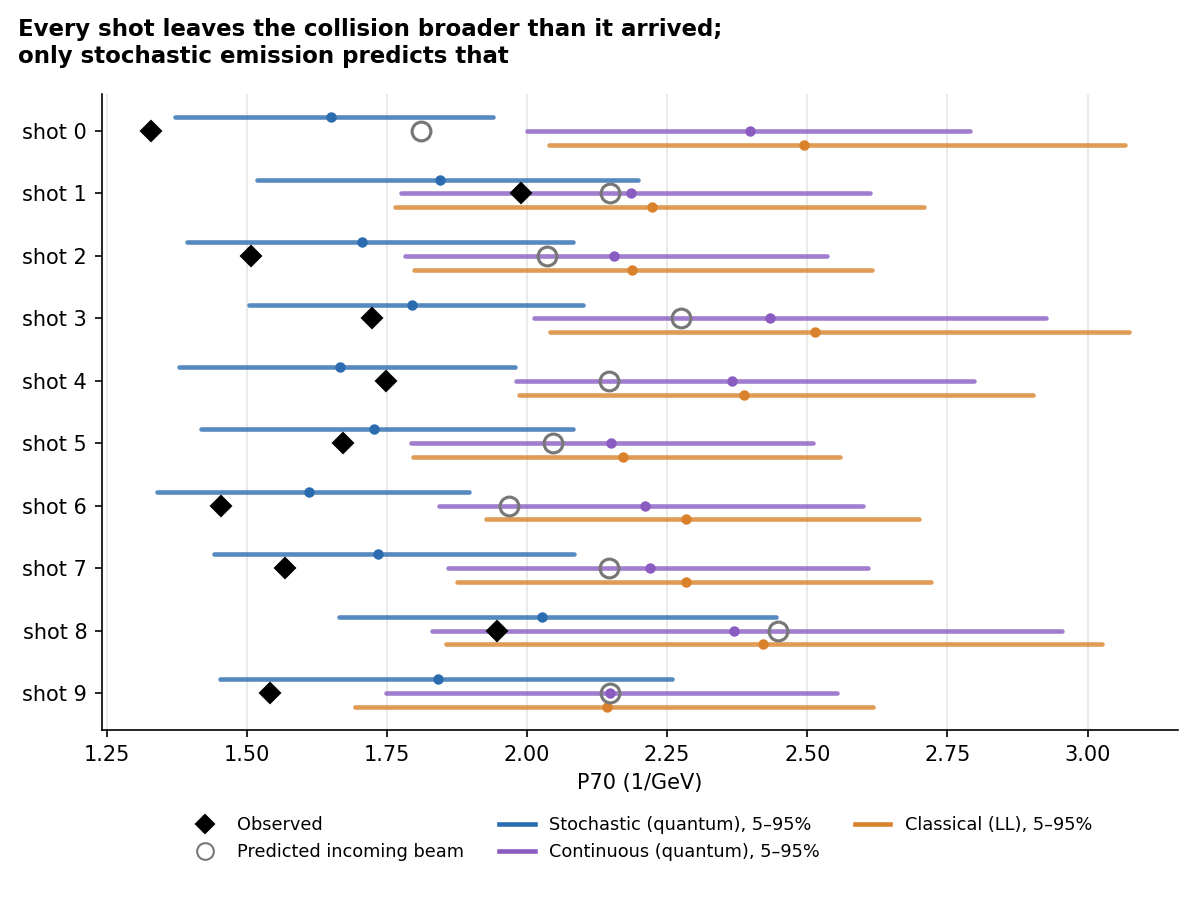
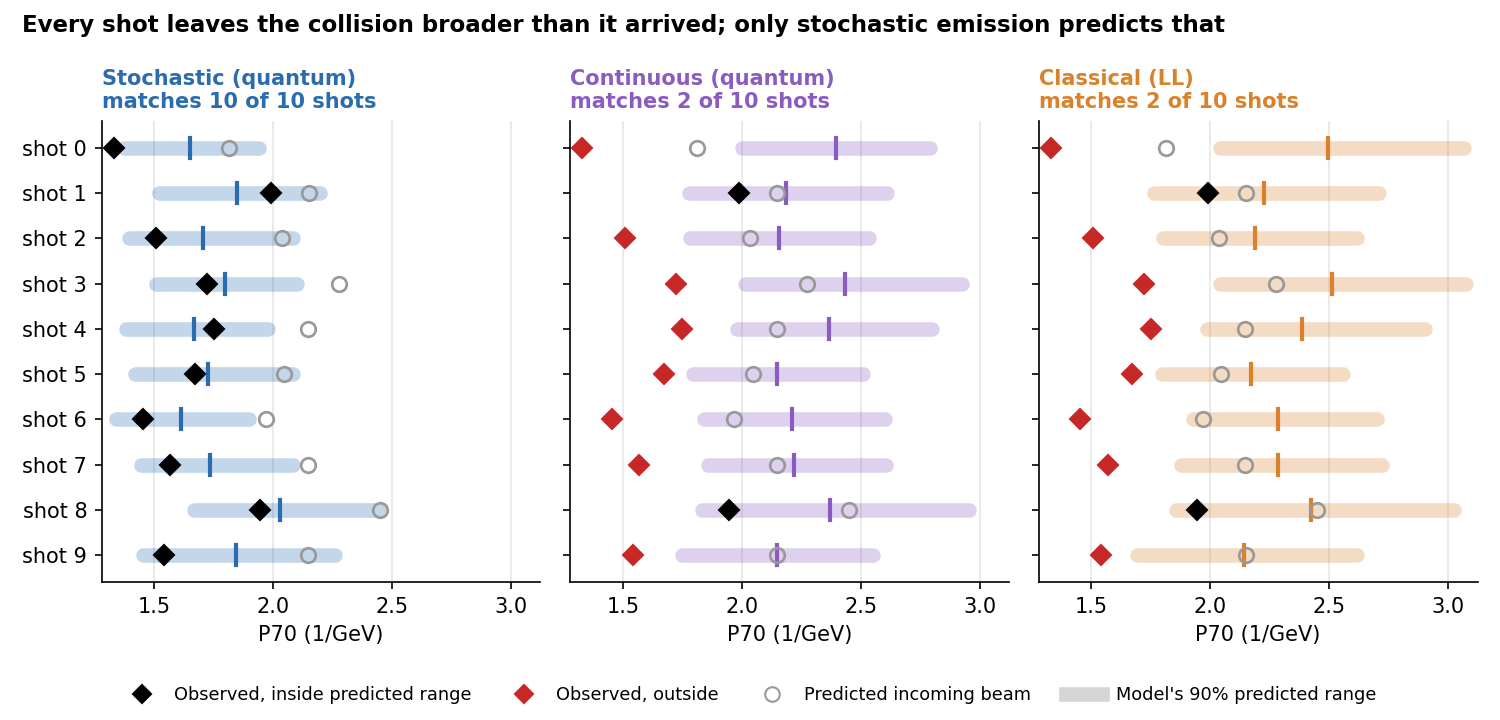
updated readme

Changed region(s): [[0.0, 0.0, 0.9867, 0.9778], [0.7092, 0.8861, 0.74, 0.9167]]

diff --git a/scripts/make_figures.py b/scripts/make_figures.py
@@ -52,20 +52,22 @@ def save(fig, name):
 
 
 # ------------------------------------------------------------------ animation
-def sweep_gif(fps=12, hold=6, steps=8):
-    from matplotlib.animation import FuncAnimation, PillowWriter
+def sweep_gif(hold_ms=2200, step_ms=110, steps=8, end_ms=4000):
+    """Each a0 is held for hold_ms, then morphs to the next in `steps` frames of step_ms each."""
+    import io
+
+    from PIL import Image
     d = json.loads((R / "diagnostics" / "a0_sweep_spectra.json").read_text())
     E = np.array(d["E"])
     a0s = [f["a0"] for f in d["frames"]]
     Y = {m: np.array([f[m]["y"] for f in d["frames"]]) for m in MODELS}
     P = {m: np.array([f[m]["P70"] for f in d["frames"]]) for m in MODELS}
     # timeline: hold on each a0, then interpolate to the next
-    t = []
+    t, ms = [], []
     for i in range(len(a0s)):
-        t += [float(i)] * hold
+        t.append(float(i)); ms.append(end_ms if i == len(a0s) - 1 else hold_ms)
         if i < len(a0s) - 1:
-            t += list(i + np.arange(1, steps) / steps)
-    t += [float(len(a0s) - 1)] * (2 * hold)
+            t += list(i + np.arange(1, steps) / steps); ms += [step_ms] * (steps - 1)
 
     def at(arr, s):
         i = int(np.floor(s)); f = s - i
@@ -105,7 +107,16 @@ def sweep_gif(fps=12, hold=6, steps=8):
 
     draw(0.0)
     check_fits(fig, "rr_sweep.gif")
-    FuncAnimation(fig, draw, frames=t, blit=False).save(OUT / "rr_sweep.gif", writer=PillowWriter(fps=fps), dpi=90)
+    frames = []
+    for s_ in t:
+        draw(s_)
+        buf = io.BytesIO()
+        fig.savefig(buf, format="png", dpi=90)
+        rgb = Image.open(buf).convert("RGB")
+        pal = frames[0] if frames else None                    # one shared palette: no colour flicker
+        frames.append(rgb.quantize(palette=pal, dither=Image.Dither.NONE) if pal else
+                      rgb.quantize(colors=128, method=Image.Quantize.MEDIANCUT, dither=Image.Dither.NONE))
+    frames[0].save(OUT / "rr_sweep.gif", save_all=True, append_images=frames[1:], duration=ms, loop=0, optimize=True)
     draw(float(a0s.index(8)) if 8 in a0s else 0.0)
     fig.savefig(OUT / "rr_sweep_still.png", dpi=150)
     plt.close(fig)
@@ -118,25 +129,36 @@ def p70_shots():
     inc = {a["shot"]: a["incoming_P70_median"] for a in d["A"]["A3"]}
     rows = d["per_shot_model"]
     shots = sorted({r["shot"] for r in rows})
-    fig, ax = plt.subplots(figsize=(8.0, 6.0))
-    off = {"stochastic": -0.22, "continuous": 0.0, "classical": 0.22}
-    for r in rows:
-        y = r["shot"] + off[r["model"]]
-        p5, p50, p95 = r["mean_only"]["pred_P70_p5_p50_p95"]
-        ax.plot([p5, p95], [y, y], color=COL[r["model"]], lw=2.2, alpha=0.8, solid_capstyle="round")
-        ax.plot(p50, y, "o", color=COL[r["model"]], ms=4)
-    for s in shots:
-        obs = next(r["obs_P70"] for r in rows if r["shot"] == s)
-        ax.plot(inc[s], s, "o", mfc="none", mec="#777", ms=9, mew=1.5)
-        ax.plot(obs, s, "D", color="black", ms=6.5)
-    ax.set(yticks=shots, yticklabels=[f"shot {s}" for s in shots], xlabel="P70 (1/GeV)", ylim=(max(shots) + 0.6, -0.6))
-    ax.grid(axis="y", visible=False)
-    h = [plt.Line2D([], [], marker="D", color="black", ls="", label="Observed"),
-         plt.Line2D([], [], marker="o", mfc="none", mec="#777", ls="", ms=8, label="Predicted incoming beam")]
-    h += [plt.Line2D([], [], color=COL[m], lw=2.2, label=f"{NAME[m]}, 5–95%") for m in MODELS]
-    ax.legend(handles=h, loc="upper center", bbox_to_anchor=(0.5, -0.11), ncol=3, fontsize=8.5)
-    title(fig, "Every shot leaves the collision broader than it arrived;\nonly stochastic emission predicts that")
-    save(fig, "p70_shots.png")
+    lo = min(min(r["mean_only"]["pred_P70_p5_p50_p95"][0], r["obs_P70"], inc[r["shot"]]) for r in rows)
+    hi = max(max(r["mean_only"]["pred_P70_p5_p50_p95"][2], r["obs_P70"], inc[r["shot"]]) for r in rows)
+    fig, axs = plt.subplots(1, 3, figsize=(10.0, 4.8), sharey=True)
+    for ax, mdl in zip(axs, MODELS):
+        n_in = 0
+        for r in (r for r in rows if r["model"] == mdl):
+            s = r["shot"]
+            p5, p50, p95 = r["mean_only"]["pred_P70_p5_p50_p95"]
+            inside = 0.025 <= r["mean_only"]["pit_P70"] <= 0.975
+            n_in += inside
+            ax.plot([p5, p95], [s, s], color=COL[mdl], lw=7, alpha=0.28, solid_capstyle="round")
+            ax.plot([p50, p50], [s - 0.22, s + 0.22], color=COL[mdl], lw=2)
+            ax.plot(inc[s], s, "o", mfc="none", mec="#999", ms=7, mew=1.3)
+            ax.plot(r["obs_P70"], s, "D", color="black" if inside else "#c62828", ms=6.5)
+        ax.set_title(f"{NAME[mdl]}\nmatches {n_in} of {len(shots)} shots", loc="left", fontsize=10, color=COL[mdl], fontweight="bold")
+        ax.set_xlim(lo - 0.05, hi + 0.05)
+        ax.grid(axis="y", visible=False)
+        ax.set_xlabel("P70 (1/GeV)")
+    axs[0].set(yticks=shots, yticklabels=[f"shot {s}" for s in shots], ylim=(max(shots) + 0.6, -0.6))
+    h = [plt.Line2D([], [], marker="D", color="black", ls="", label="Observed, inside predicted range"),
+         plt.Line2D([], [], marker="D", color="#c62828", ls="", label="Observed, outside"),
+         plt.Line2D([], [], marker="o", mfc="none", mec="#999", ls="", ms=7, label="Predicted incoming beam"),
+         plt.Line2D([], [], color="#888", lw=7, alpha=0.35, label="Model's 90% predicted range")]
+    fig.legend(handles=h, loc="lower center", ncol=4, fontsize=8.5, bbox_to_anchor=(0.5, 0.0))
+    title(fig, "Every shot leaves the collision broader than it arrived; only stochastic emission predicts that")
+    fig.tight_layout(rect=(0, 0.07, 1, 1))
+    check_fits(fig, "p70_shots.png")
+    fig.savefig(OUT / "p70_shots.png", dpi=150)
+    plt.close(fig)
+    print("wrote", OUT / "p70_shots.png")
 
 
 # ------------------------------------------------------------------ Bayes factors

diff --git a/README.md b/README.md
@@ -24,16 +24,11 @@ Full write-up: **[docs/report.md](docs/report.md)**.
 
 ## Pipeline
 
-```mermaid
-flowchart LR
-    A["Gemini 2021 LWFA<br/>645 shots: diagnostics + spectra"] --> B["Stage 1 · Beam model<br/>LightGBM + peak model<br/>conformal calibration"]
-    B --> C["Beam pool<br/>1,935 spectra"]
-    C --> D["Stage 2 · Ptarmigan MC<br/>8,192-run Sobol scan<br/>3 radiation-reaction models"]
-    D --> E["Stage 3 · Surrogate<br/>MLP ensemble<br/>calibrated intervals"]
-    E --> F["Stage 4 · Inference<br/>emcee posteriors<br/>Bayesian model comparison"]
-    G["Los et al. 2024<br/>10 collision shots"] --> F
-    B -. "measured beam error" .-> F
-```
+<p align="center">
+  <img src="docs/figures/pipeline.png" width="900" alt="Pipeline: Gemini data to Stage 1 beam model, beam pool, Stage 2 Ptarmigan scan, Stage 3 surrogate and Stage 4 inference on the Los et al. collision shots">
+</p>
+
+<sub>Diagram source: <code>docs/figures/pipeline.mmd</code> (render with <code>mmdc -i docs/figures/pipeline.mmd -o docs/figures/pipeline.png -s 3 -b white</code>).</sub>
 
 Every stage's uncertainty is checked on data it never saw: conformal calibration and coverage tests (stages 1 and 3), validation against analytic limits (stage 2), and recovery tests on simulated shots with known answers plus posterior predictive checks (stage 4).
 
